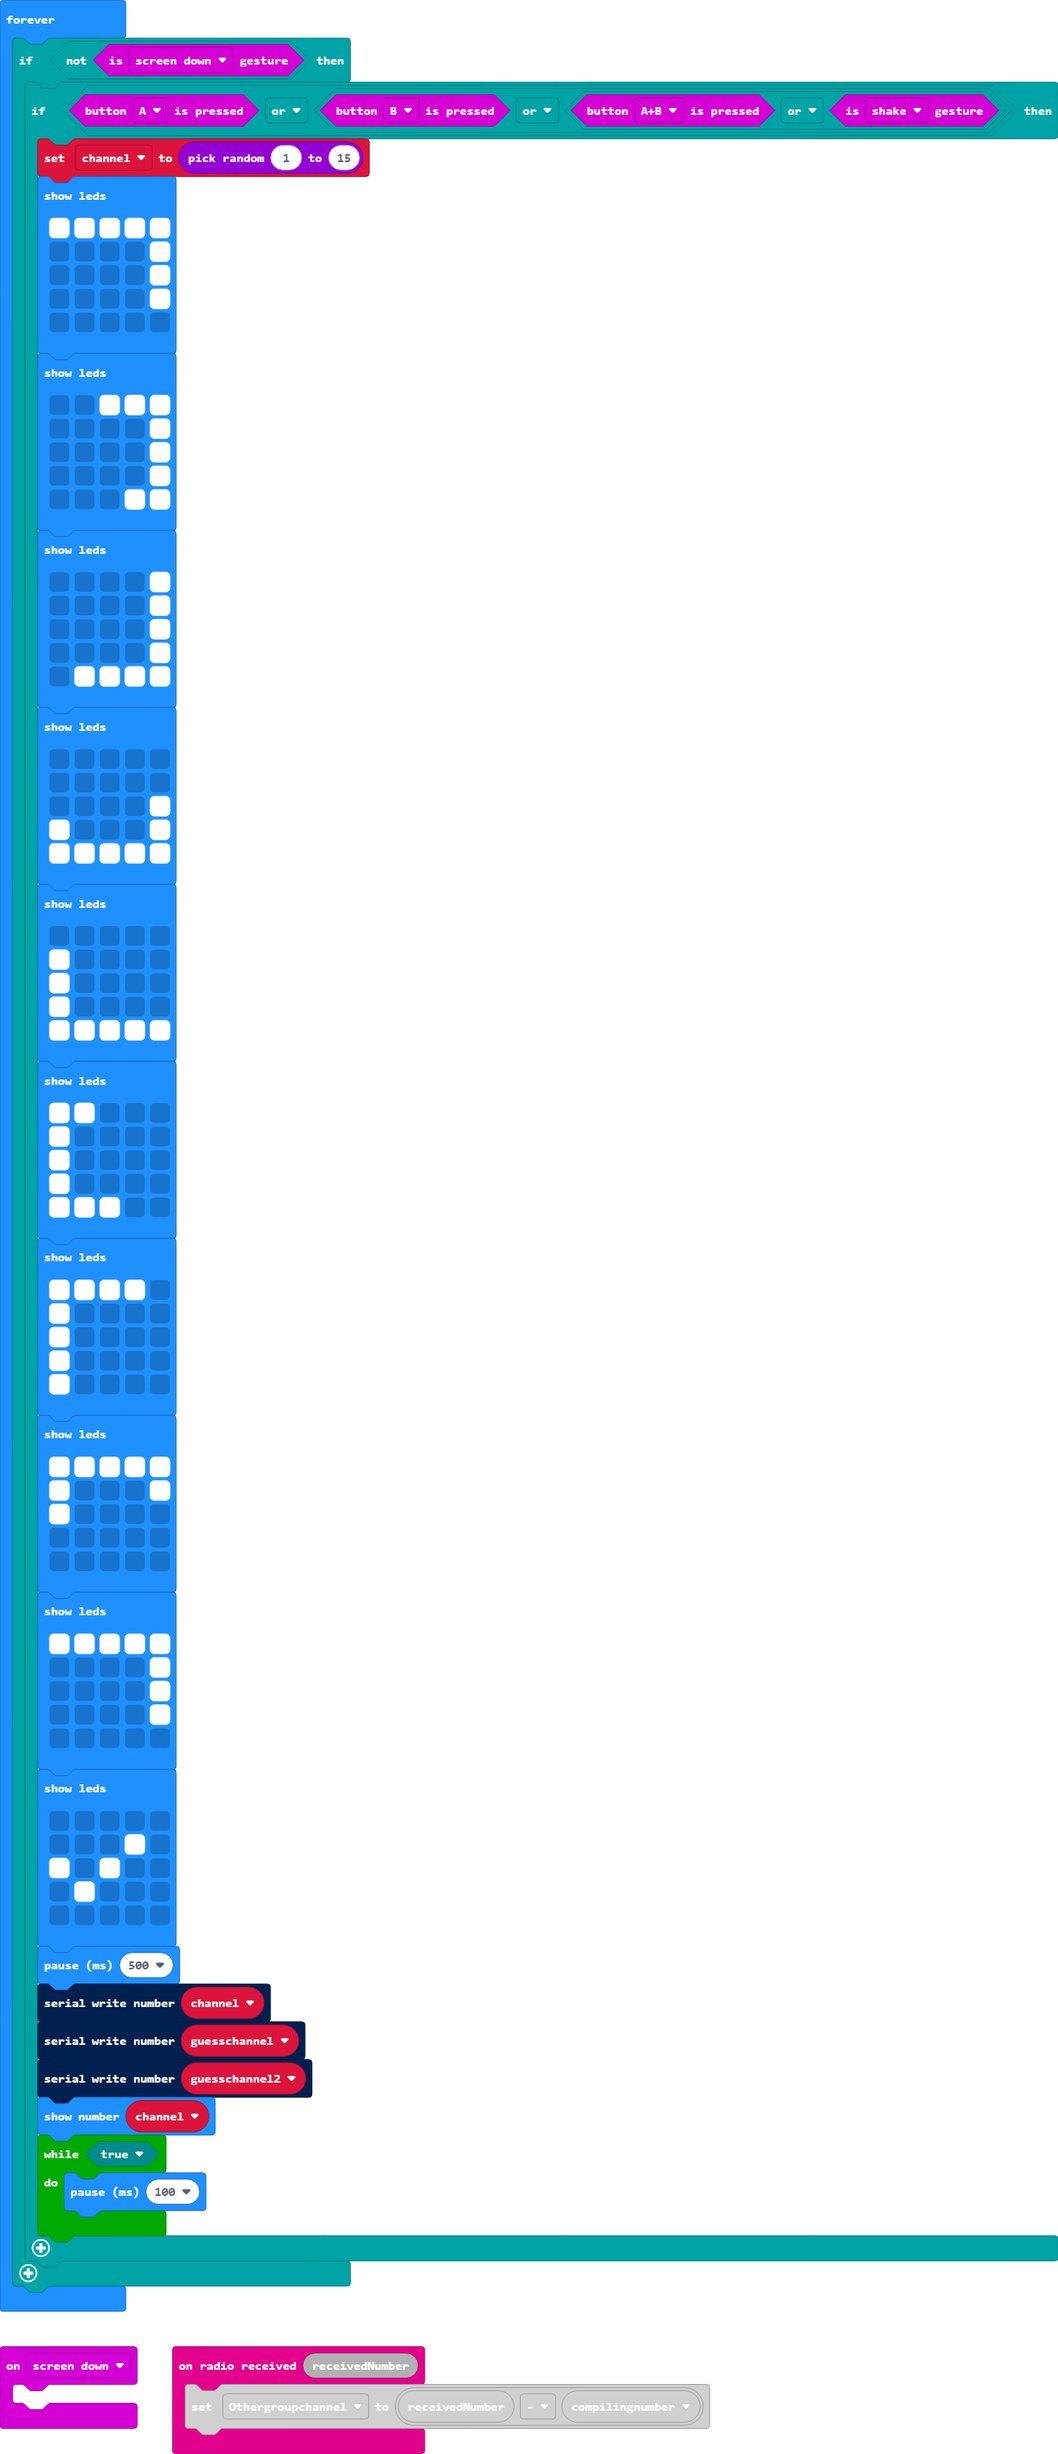
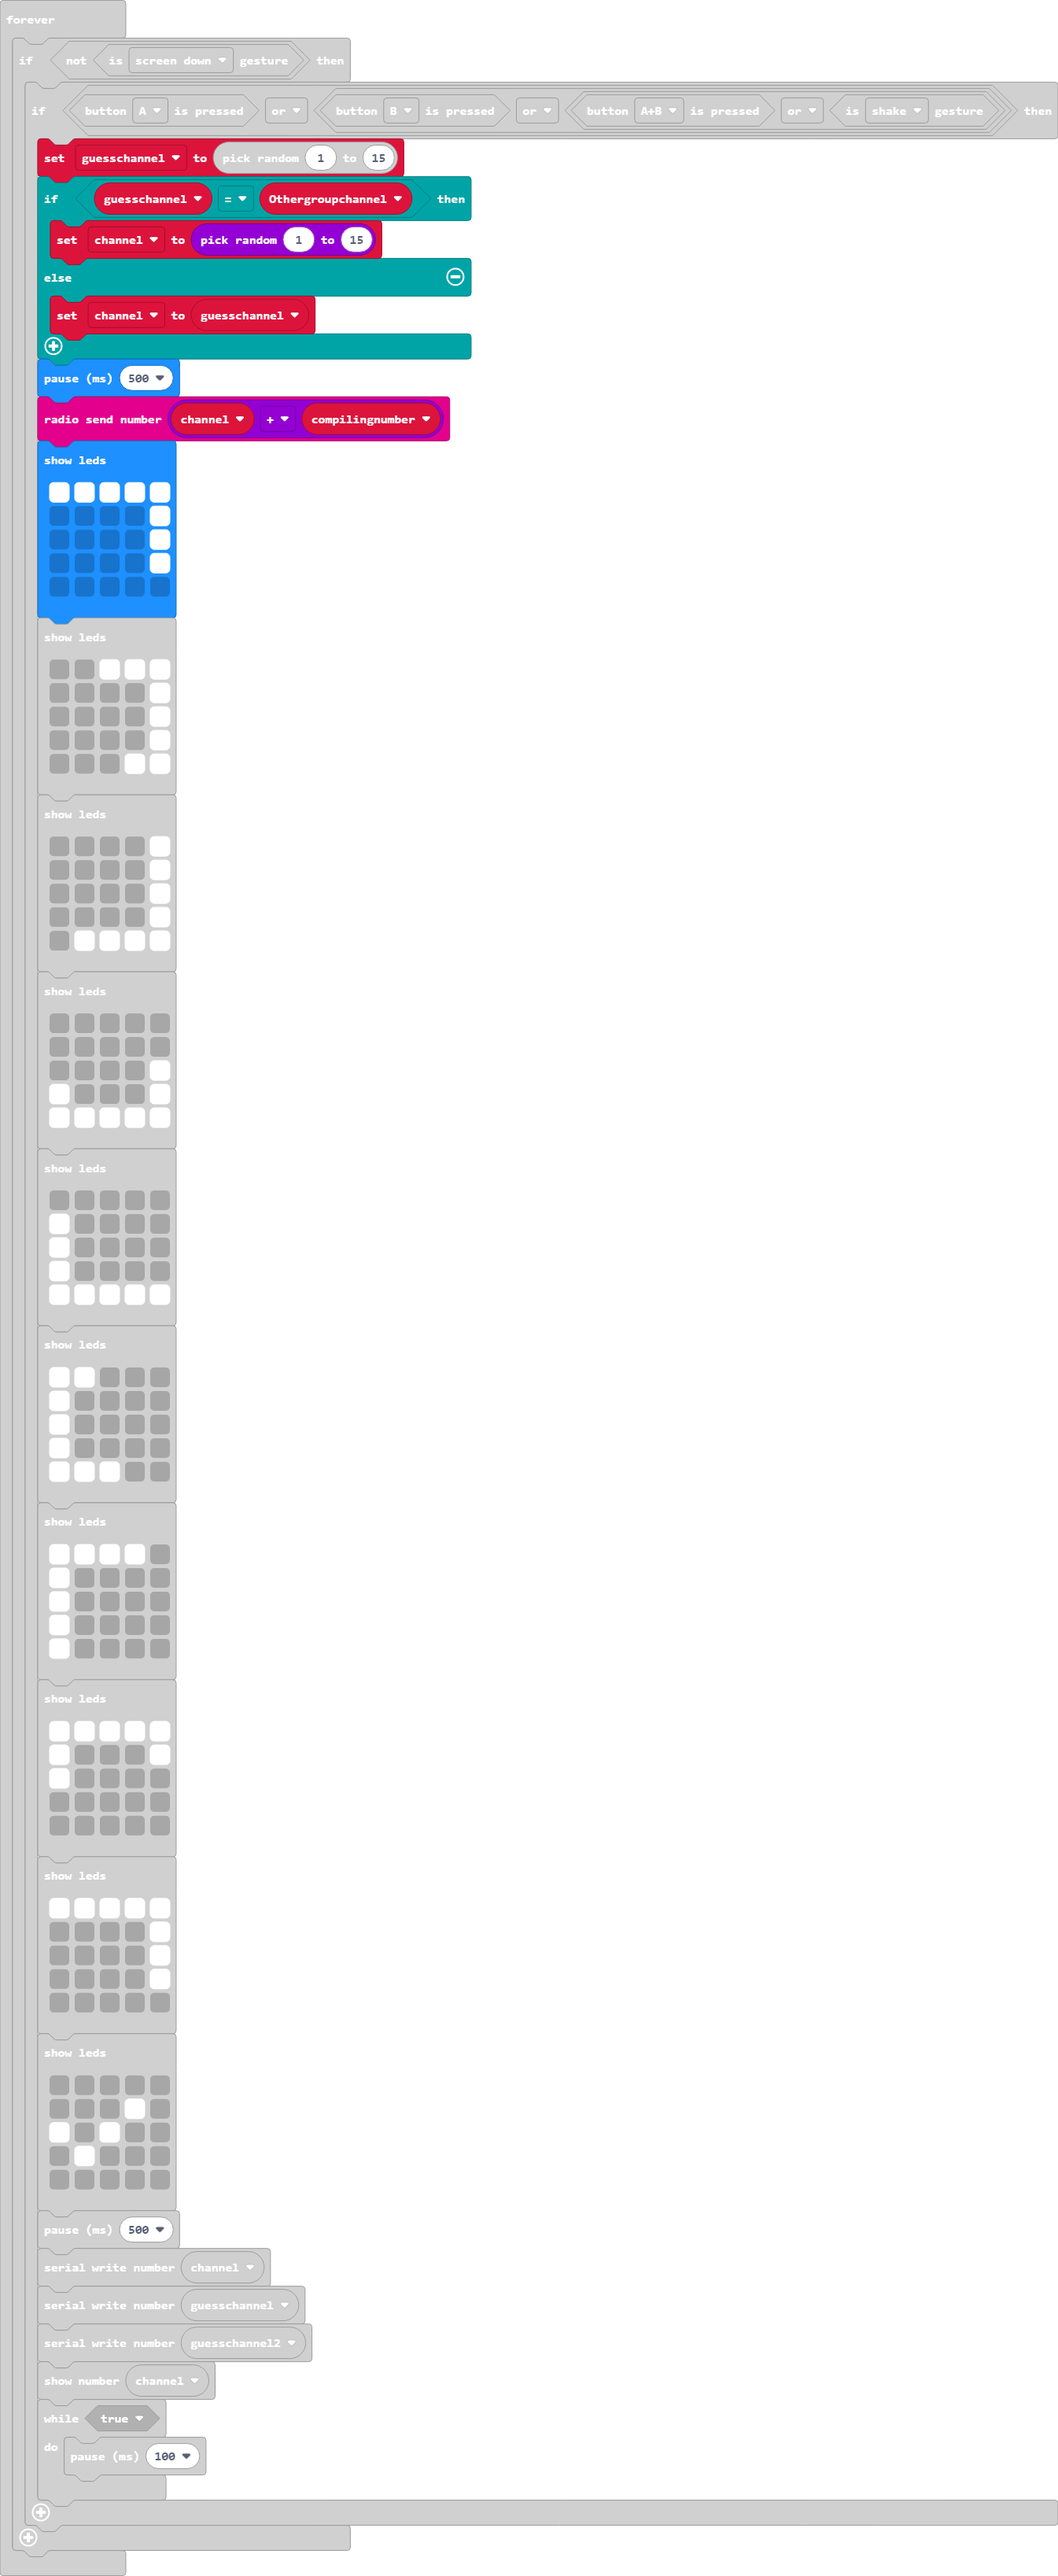
Update main.blocks, main.ts

Changed region(s): [[0.0, 0.0, 1.0, 1.0]]

diff --git a/main.ts b/main.ts
@@ -8,6 +8,7 @@ input.onGesture(Gesture.ScreenDown, function () {
 	
 })
 let channel = 0
+let guesschannel = 0
 let Othergroupchannel = 0
 let compilingnumber = 0
 basic.showString("Ready")
@@ -16,8 +17,14 @@ basic.forever(function () {
     if (!(input.isGesture(Gesture.ScreenDown))) {
         if (input.buttonIsPressed(Button.A) || (input.buttonIsPressed(Button.B) || (input.buttonIsPressed(Button.AB) || input.isGesture(Gesture.Shake)))) {
             let guesschannel2 = 0
-            let guesschannel = 0
-            channel = randint(1, 15)
+            guesschannel = randint(1, 15)
+            if (guesschannel == Othergroupchannel) {
+                channel = randint(1, 15)
+            } else {
+                channel = guesschannel
+            }
+            basic.pause(500)
+            radio.sendNumber(channel + compilingnumber)
             basic.showLeds(`
                 # # # # #
                 . . . . #
